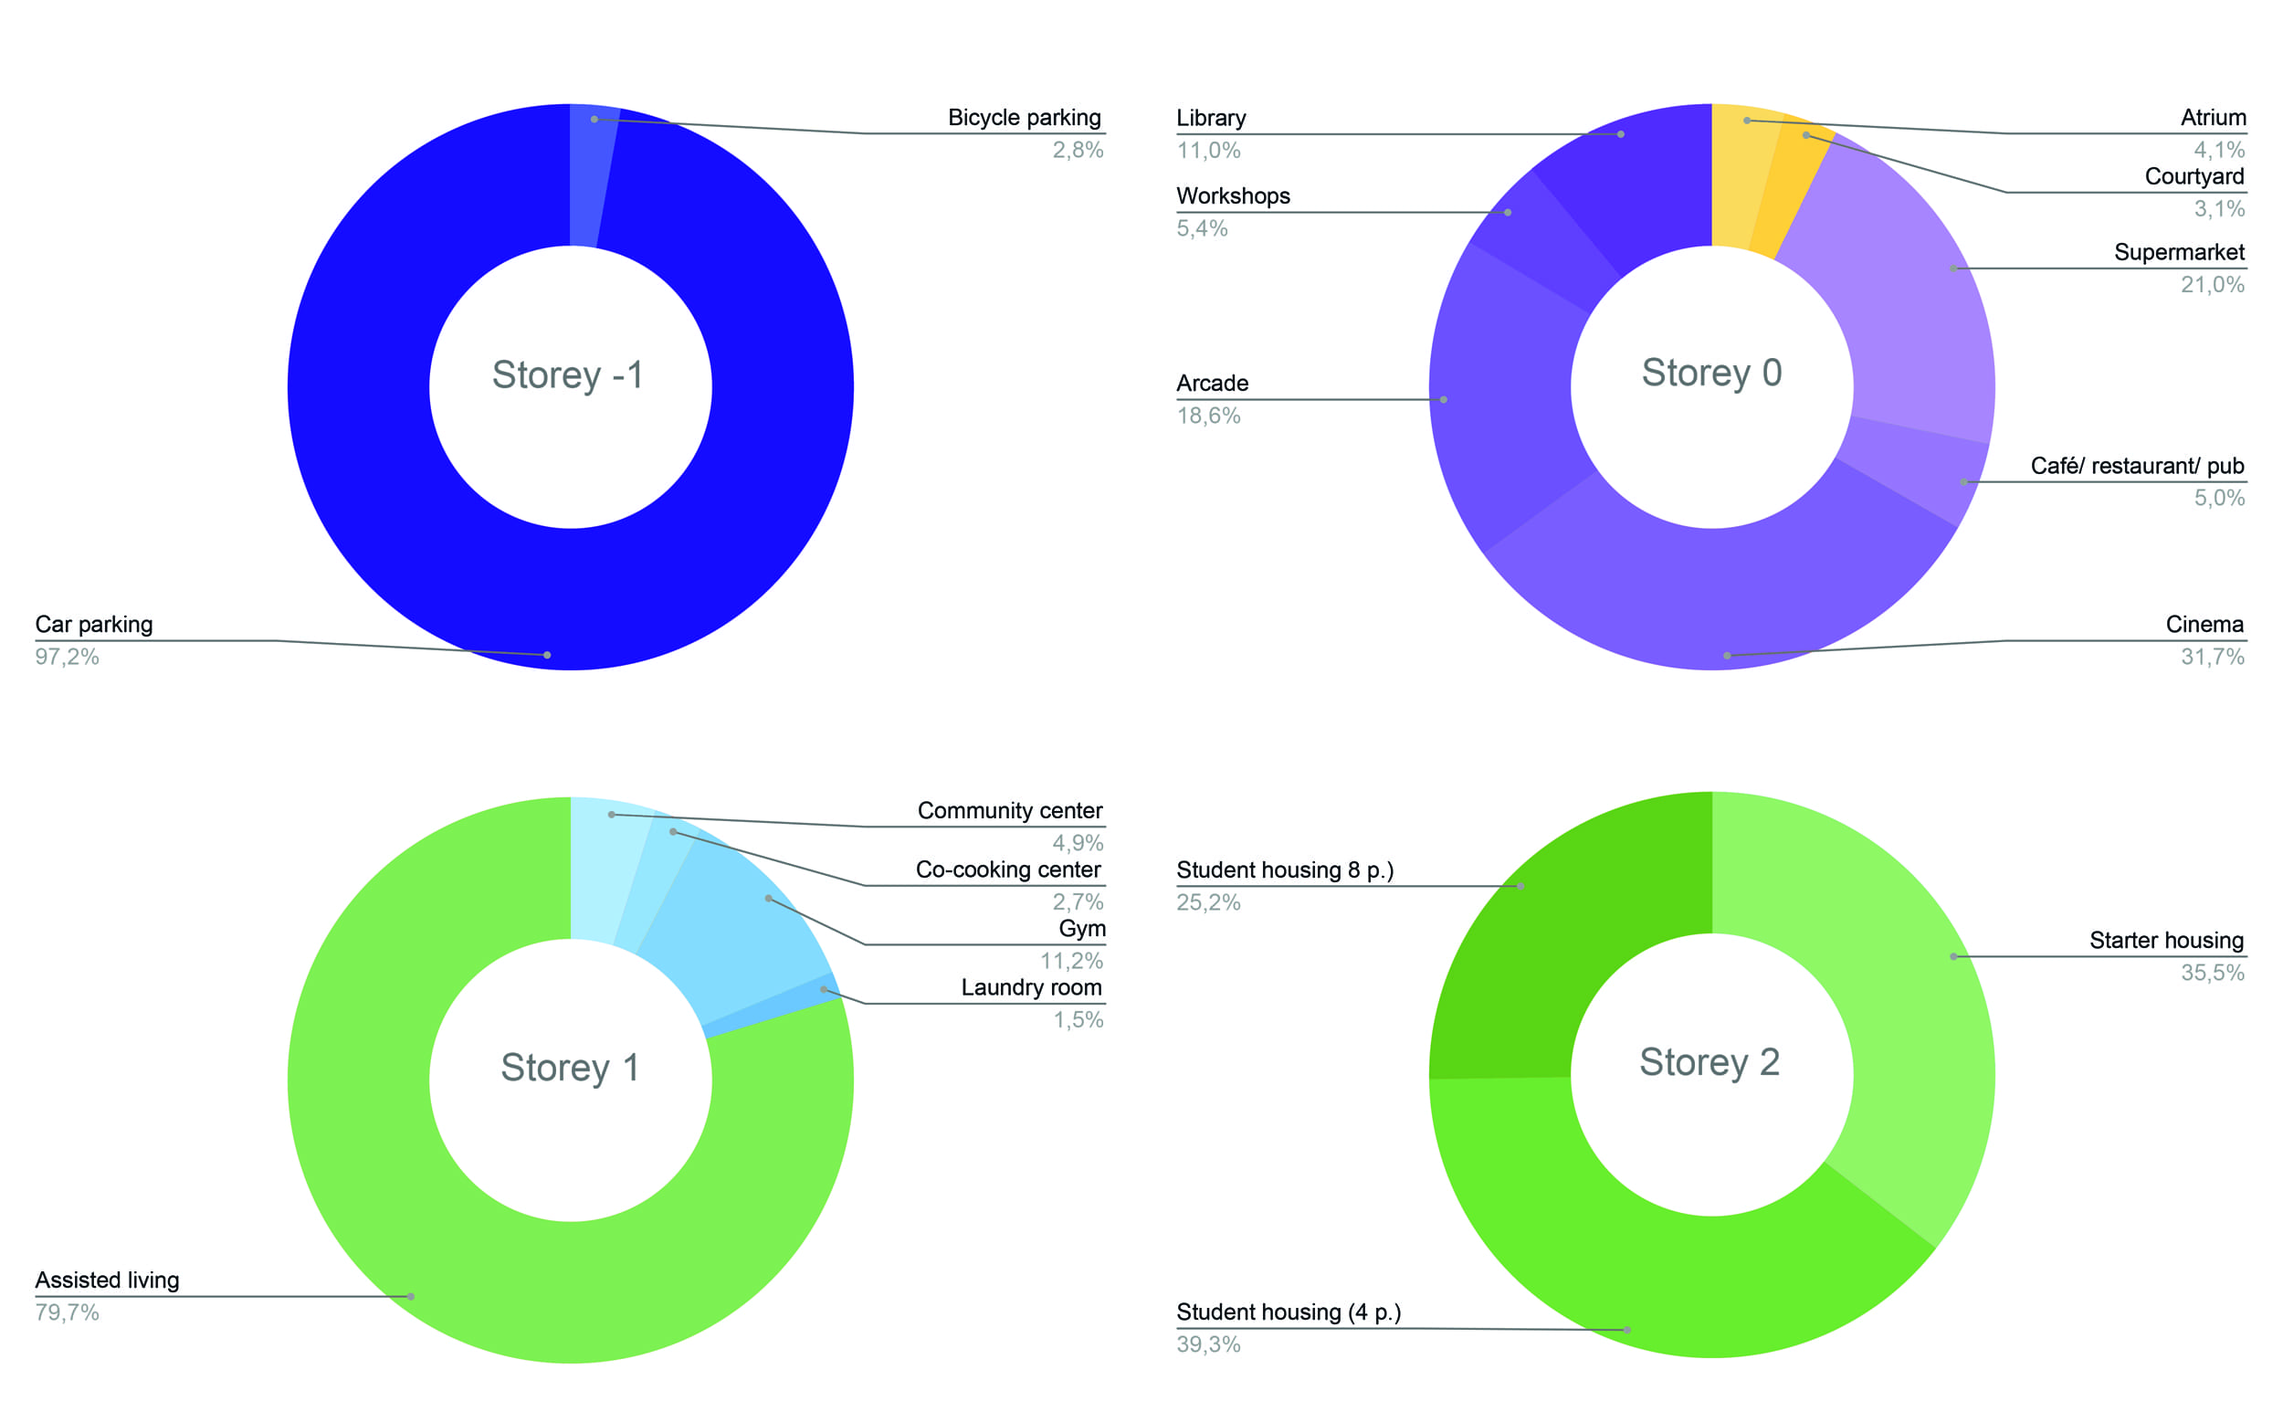
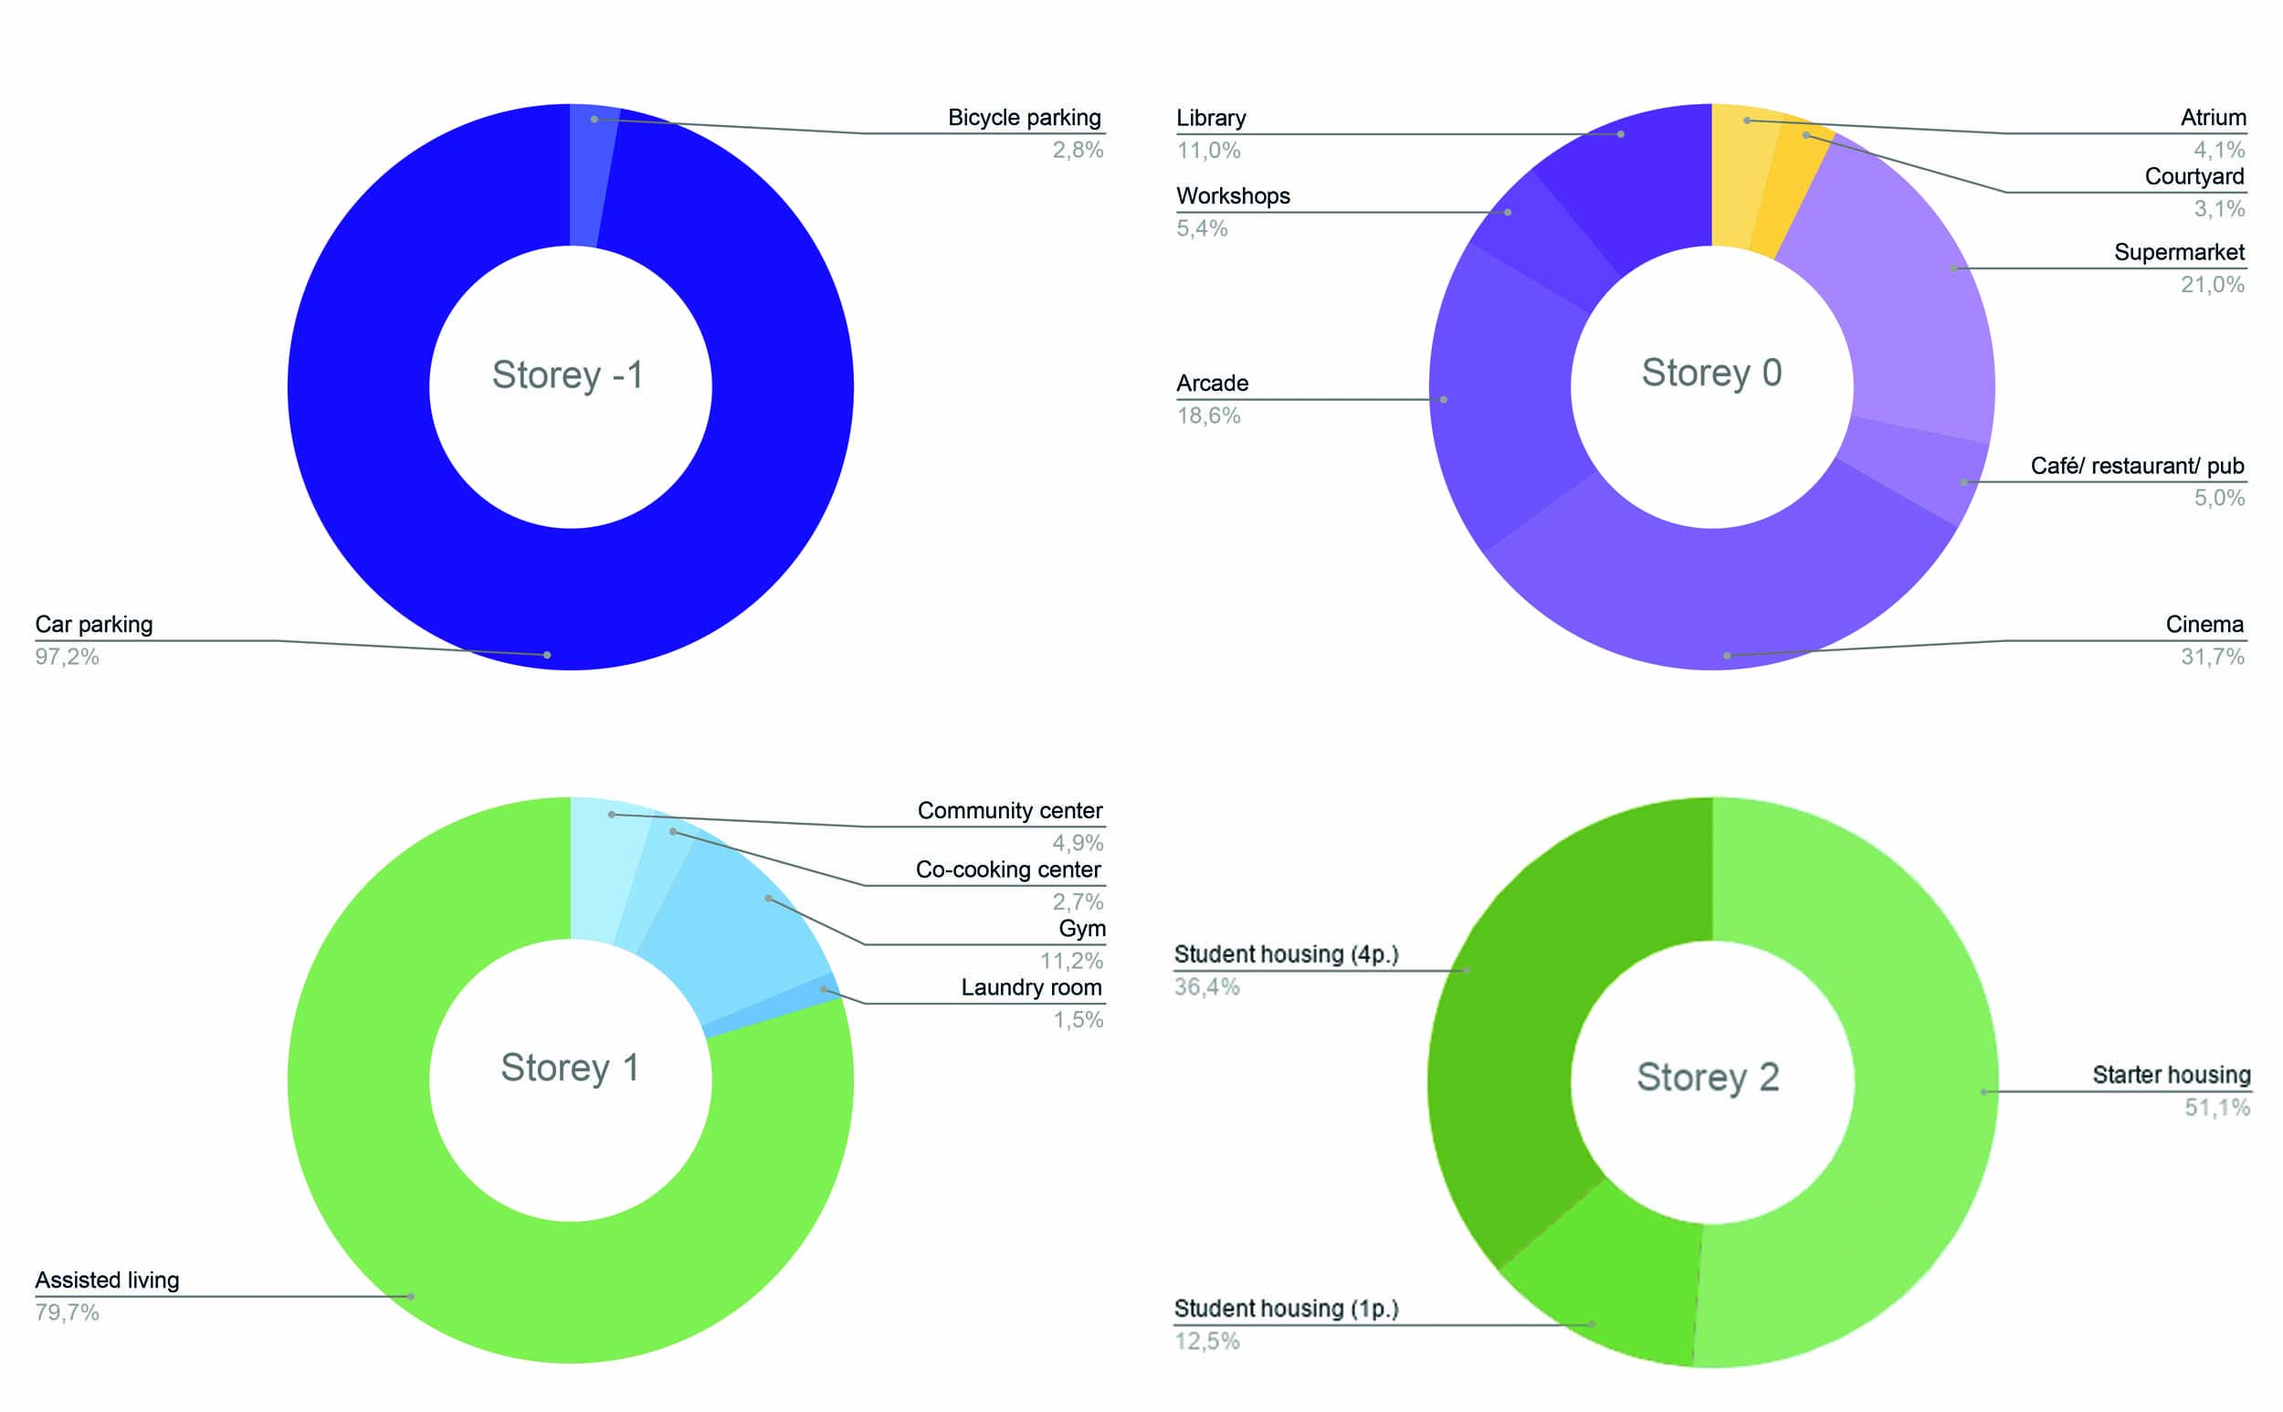
Deployed dd9cb9b with MkDocs version: 1.1.2

diff --git a/a1.1_Process/index.html b/a1.1_Process/index.html
@@ -914,9 +914,9 @@ We want to provoke this by creating spaces where the residents can interact with
 <h3 id="future-residents">Future residents</h3>
 <p>&nbsp;&nbsp;&nbsp;&nbsp; The shortage of residency in today’s society is an important issue that affects a variety of citizens and therefore it has to be addressed. Due to the significance of this problem, the project will offer housing where people of different life stages can live together. Starters, students and people with the need for assisted living will form a residential community which can lead to beautiful interactions. Especially during the current pandemic, we see how much we depend on each other: for example, it is not safe for the elderly to do groceries, so it would be great if neighbours (in our case starters of students) could do some groceries for them.
 Additionally, the connection between the target groups will be supported by different design decisions, such as the possibilities to cook together or for each other in the co-cooking center, do workshops together or meet each other in the community center.</p>
-<p>&nbsp;&nbsp;&nbsp;&nbsp; As already mentioned in the <a href="###designgoals">design goals (problem)</a>, we want to develop a layout that suits the residents. So for the <strong>starters</strong> we will realize a wonted apartment including a bathroom, living room (kitchen, dinner room and sitting room in one), a bedroom and an additional room. This additional room can be used for different functions like a washing room, a study room or an extra bedroom for their first child. Since starters are at the beginning of their life (just graduated, getting a job and maybe starting their own family), it is important that there is enough space for the residence to grow in.
+<p>&nbsp;&nbsp;&nbsp;&nbsp; As already mentioned in the <a href="./#design-goals">design goals</a>, we want to develop a layout that suits the residents. So for the <strong>starters</strong> we will realize a wonted apartment including a bathroom, living room (kitchen, dinner room and sitting room in one), a bedroom and an additional room. This additional room can be used for different functions like a washing room, a study room or an extra bedroom for their first child. Since starters are at the beginning of their life (just graduated, getting a job and maybe starting their own family), it is important that there is enough space for the residence to grow in.
 <br>For the <strong>people in the need of assisted living</strong> it is important that they will be able to stay as long as possible in their own houses, before they have to move to a retirement home. To make this happen there will be additional modifications like a wider corridor and kitchen and special devices in the bathroom to make the apartment walker and wheelchair friendly.
-<br>There will be two kind of floor plans for the <strong>students</strong>: a bigger one habitable for 8 students and a smaller one for four students. By creating different floor plans, we want to attract different target groups within the ‘student-world’, namely those who want to live in a smaller house with fewer people, and those who would like to be in a bigger student housing. There is a slight difference between the floor plans of the bigger and the smaller residences (except the amount of bedrooms): the bedrooms the bigger apartments will have their own sink and the common room, as well as the bathroom will be bigger.</p>
+<br>There will be two kind of floor plans for the <strong>students</strong>: a bigger one habitable for four students and a smaller one, a studio. By creating different floor plans, we want to attract different target groups within the ‘student-world’, namely those who want to live in a 'bigger' house with other people, and those who would like to live on their own.</p>
 <figure>
   <img src="..\img\1\1_resident_all.png" alt="Future residents" style="width:80%; height:80%;">
   <figcaption>Figure X: Future residents</figcaption>
@@ -943,7 +943,7 @@ Additionally, the connection between the target groups will be supported by diff
 </figure>
 
 <h3 id="access-routes">Access routes</h3>
-<p>&nbsp;&nbsp;&nbsp;&nbsp; In <em><a href="img\1\1_access.png">Figure X</a></em> the accessibility of our site is shown. Our site is directly surrounded by a sidewalk with a few thresholds for access to the parking garage. Only the northeast side of the building is more focused on the accessibility for cars, because of the direct street that is situated opposite the building. Near the building, there are some car parking and a few bicycle parking. Furthermore, the main roads for vehicles that surround our site are bicycle roads (a bicycle road where cars are the guests and cyclists have the priority) and ‘normal’ car roads. <em><a href="img\1\1_access.png">Figure X</a></em> visualizes which car roads are busy and which are widely used. In addition to this, the green walking route that is close to our site is shown.</p>
+<p>&nbsp;&nbsp;&nbsp;&nbsp; In <em><a href="../img/1/1_access.png">Figure X</a></em> the accessibility of our site is shown. Our site is directly surrounded by a sidewalk with a few thresholds for access to the parking garage. Only the northeast side of the building is more focused on the accessibility for cars, because of the direct street that is situated opposite the building. Near the building, there are some car parking and a few bicycle parking. Furthermore, the main roads for vehicles that surround our site are bicycle roads (a bicycle road where cars are the guests and cyclists have the priority) and ‘normal’ car roads. <em><a href="../img/1/1_access.png">Figure X</a></em> visualizes which car roads are busy and which are widely used. In addition to this, the green walking route that is close to our site is shown.</p>
 <figure>
   <img src="..\img\1\1_access.png" alt="Access routes to the site" style="width:80%; height:80%;">
   <figcaption>Figure X: Access routes to the site</figcaption>
@@ -959,24 +959,26 @@ Additionally, the connection between the target groups will be supported by diff
 
 <hr />
 <h2 id="programme-of-requirements">Programme of requirements</h2>
-<p>&nbsp;&nbsp;&nbsp;&nbsp; Additionally to the Design Philosophy, we formulated a Programme of requirements. This does not only include spatial requirements like the square meter or the ideal storey and the functional requirements like the number of bathrooms or storage space that is needed, it also contains important information about the noise.</p>
+<p>&nbsp;&nbsp;&nbsp;&nbsp; Additionally to the <a href="#design-philosophy">Design Philosophy</a>, we formulated a Programme of requirements. This does not only include spatial requirements like the square meter or the ideal storey and the functional requirements like the number of bathrooms or storage space that is needed, it also contains important information about the noise.</p>
 <h3 id="functions-size">Functions size</h3>
-<p>&nbsp;&nbsp;&nbsp;&nbsp; In <em><a href="&lt;iframe src=&quot;https://docs.google.com/spreadsheets/d/e/2PACX-1vTMu2lDPflfX5ZR-1qgymNJfftMRzbF7vgOjs_hGjM9QrpVnS1x7kB_2qUyRDZboKtxNZU5h1AetZ1V/pubhtml?gid=1127471722&amp;single=true&amp;widget=true&amp;headers=false&quot;&gt;&lt;/iframe&gt;">Figure X(problem)</a></em>, a table is shown where aspects concerning the sizes of all the spaces can be found: The floor height, on which storey, square meter, amount of rooms, amount of voxels and for how many people the space is designed. This information will be used to construct the building in spatial computing.</p>
+<p>&nbsp;&nbsp;&nbsp;&nbsp; In <em><a href="https://docs.google.com/spreadsheets/d/1WSESjmhx8Dqj5SNlCHGObiA6oWPpluTqnZsElcBzVxI/edit?usp=sharing">Figure X</a></em>, a table is shown where aspects concerning the sizes of all the spaces can be found: The floor height, on which storey, square meter, amount of rooms, amount of voxels and for how many people the space is designed. This information will be used to construct the building in spatial computing.</p>
 <figure style="width:600px; height: 400px;">
     <iframe src="https://docs.google.com/spreadsheets/d/e/2PACX-1vTMu2lDPflfX5ZR-1qgymNJfftMRzbF7vgOjs_hGjM9QrpVnS1x7kB_2qUyRDZboKtxNZU5h1AetZ1V/pubhtml?gid=1127471722&amp;single=true&amp;widget=true&amp;headers=false" alt="Sizes of the functions" style="width:750px; height:400px;"></iframe>
     <figcaption>Figure X: Sizes of the functions</figcaption>
 </figure>
 
+<p><br></p>
 <h3 id="functional-requirements">Functional requirements</h3>
-<p>&nbsp;&nbsp;&nbsp;&nbsp; In <a href="###Functions size">Functions size(problem)</a> we already mentioned the number of square meters and voxels which are needed for each function. Though, it is necessary to subdivide these functions in separate rooms so the voxels can grow in rooms instead of categorised in functions, XXX. The table underneath (<em><a href="&lt;iframe src=&quot;https://docs.google.com/spreadsheets/d/e/2PACX-1vTMu2lDPflfX5ZR-1qgymNJfftMRzbF7vgOjs_hGjM9QrpVnS1x7kB_2qUyRDZboKtxNZU5h1AetZ1V/pubhtml?gid=1127471722&amp;single=true&amp;widget=true&amp;headers=false&quot;&gt;&lt;/iframe&gt;">Figure X (problem)</a></em>) shows exactly how many square meters will be needed for e.g. the technical room of the arcade, or how big the staff room in the supermarket will be. <a href="../a2.1_Product/">Here (problem want link ##Voxel amount for each function)</a> more information can be found regarding the amount of voxels fitting into these spaces.</p>
+<p>&nbsp;&nbsp;&nbsp;&nbsp; In <a href="#functions-size">Functions size</a> we already mentioned the number of square meters and voxels which are needed for each function. Though, it is necessary to subdivide these functions in separate rooms so the voxels can grow in rooms instead of categorised in functions. The table underneath (<em><a href="https://docs.google.com/spreadsheets/d/1mJcpOgEcOAqXLeDFoU6bOzxnav6buEUZLrf5JuGGjSg/edit?usp=sharing">Figure X</a></em>) shows exactly how many square meters will be needed for e.g. the technical room of the arcade, or how big the staff room in the supermarket will be. <a href="/a2.1_Product/#voxel-amount-for-each-function">Here</a> more information can be found regarding the amount of voxels fitting into these spaces.</p>
 <figure style="width:600px; height: 400px;">
     <iframe src="https://docs.google.com/spreadsheets/d/e/2PACX-1vT0sUp0gzIcAXLd-qRPS5m_ltJWU1ofuI8gIKb5NOehaGCFWh0RYqbhcwKxFilVcD50h4oOWsCnp_CY/pubhtml?gid=1193337170&amp;single=true&amp;widget=true&amp;headers=false" alt="Sizes of the functions" style="width:750px; height:400px;"></iframe>
     <figcaption>Figure X: Sizes of the functions</figcaption>
 </figure>
 
-<p>&nbsp;&nbsp;&nbsp;&nbsp; In addition to this, the chart (<em><a href="img\1\1_Functions+categories.png">Figure X</a></em>) gives an overview of the percentage distribution of the different functions. The inside of the ring represents the total amount of space which is required for the overarching functions: Meeting space, housing, private facilities, public facilities and parking. The outside ring shows the specific facilities belonging to each overarching function.</p>
+<p><br><br>
+&nbsp;&nbsp;&nbsp;&nbsp; In addition to this, the chart (<em><a href="../img/1/1_Functions%2Bcategories.jpg">Figure X</a></em>) gives an overview of the percentage distribution of the different functions. The inside of the ring represents the total amount of space which is required for the overarching functions: Meeting space, housing, private facilities, public facilities and parking. The outside ring shows the specific facilities belonging to each overarching function.</p>
 <figure>
-  <img src="..\img\1\1_Functions+categories.png" alt="Distribution of facilities throughout the enitry building" style="width:80%; height:80%;">
+  <img src="..\img\1\1_Functions+categories.jpg" alt="Distribution of facilities throughout the enitry building" style="width:80%; height:80%;">
   <figcaption>Figure X: Distribution of facilities throughout the entry building</figcaption>
 </figure>
 
@@ -988,14 +990,14 @@ Additionally, the connection between the target groups will be supported by diff
 </figure>
 
 <h3 id="noise-table">Noise table</h3>
-<p>&nbsp;&nbsp;&nbsp;&nbsp; The average assigned noise level per space can be seen in <em><a href="&lt;iframe src=&quot;https://docs.google.com/spreadsheets/d/e/2PACX-1vTMu2lDPflfX5ZR-1qgymNJfftMRzbF7vgOjs_hGjM9QrpVnS1x7kB_2qUyRDZboKtxNZU5h1AetZ1V/pubhtml?gid=137437354&amp;single=true&amp;widget=true&amp;headers=false&quot;&gt;&lt;/iframe&gt;">Figure X(problem)</a></em>. As well as the hours in which the noise levels occur. The corresponding reason for the chosen time in which the noise levels score a middle to high level has also been added. Besides, the spaces that are noise sensitive have also been classified.  </p>
+<p>&nbsp;&nbsp;&nbsp;&nbsp; The average assigned noise level per space can be seen in <em><a href="https://docs.google.com/spreadsheets/d/1WSESjmhx8Dqj5SNlCHGObiA6oWPpluTqnZsElcBzVxI/edit?usp=sharing">Figure X</a></em>. As well as the hours in which the noise levels occur. The corresponding reason for the chosen time in which the noise levels score a middle to high level has also been added. Besides, the spaces that are noise sensitive have also been classified.  </p>
 <figure>
     <iframe src="https://docs.google.com/spreadsheets/d/e/2PACX-1vTMu2lDPflfX5ZR-1qgymNJfftMRzbF7vgOjs_hGjM9QrpVnS1x7kB_2qUyRDZboKtxNZU5h1AetZ1V/pubhtml?gid=137437354&amp;single=true&amp;widget=true&amp;headers=false" alt="Noise table" style="width:600px; height:400px;"></iframe>
     <figcaption>Figure X: Noise table</figcaption>
 </figure>
 
 <h4 id="noise-chart">Noise chart</h4>
-<p>&nbsp;&nbsp;&nbsp;&nbsp; The previous <a href="&lt;iframe src=&quot;https://docs.google.com/spreadsheets/d/e/2PACX-1vTMu2lDPflfX5ZR-1qgymNJfftMRzbF7vgOjs_hGjM9QrpVnS1x7kB_2qUyRDZboKtxNZU5h1AetZ1V/pubhtml?gid=137437354&amp;single=true&amp;widget=true&amp;headers=false&quot;&gt;&lt;/iframe&gt;">table (problem)</a> showed us the average noise level and sensitivity of the various rooms. To have a better impression when the functions reach the different noise levels in specific moments of the day, the following <a href="../img/1/1_geluid_schema.jpg">noise-diagram</a> is made. This gives us a good overview of which functions can be located next to each other, and which ones have to be separated by a greater distance.  </p>
+<p>&nbsp;&nbsp;&nbsp;&nbsp; The previous <a href="https://docs.google.com/spreadsheets/d/1WSESjmhx8Dqj5SNlCHGObiA6oWPpluTqnZsElcBzVxI/edit?usp=sharing">table</a> showed us the average noise level and sensitivity of the various rooms. To have a better impression when the functions reach the different noise levels in specific moments of the day, the following <a href="../img/1/1_geluid_schema.jpg">noise-diagram</a> is made. This gives us a good overview of which functions can be located next to each other, and which ones have to be separated by a greater distance.  </p>
 <figure>
   <img src="..\img\1\1_geluid_schema.jpg" alt="Noise chart" style="width:80%; height:80%;">
   <figcaption>Figure X: Noise chart</figcaption>
